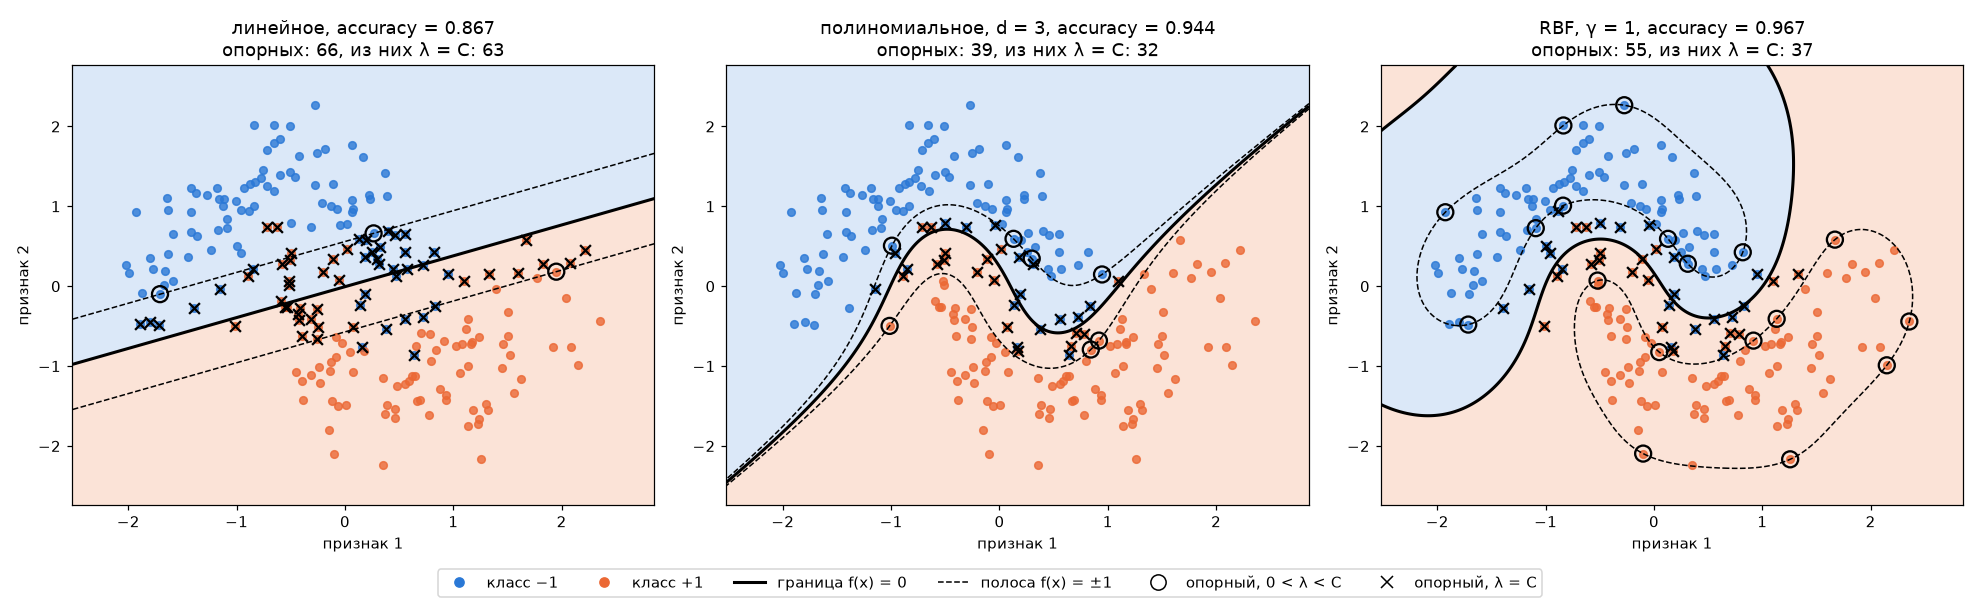
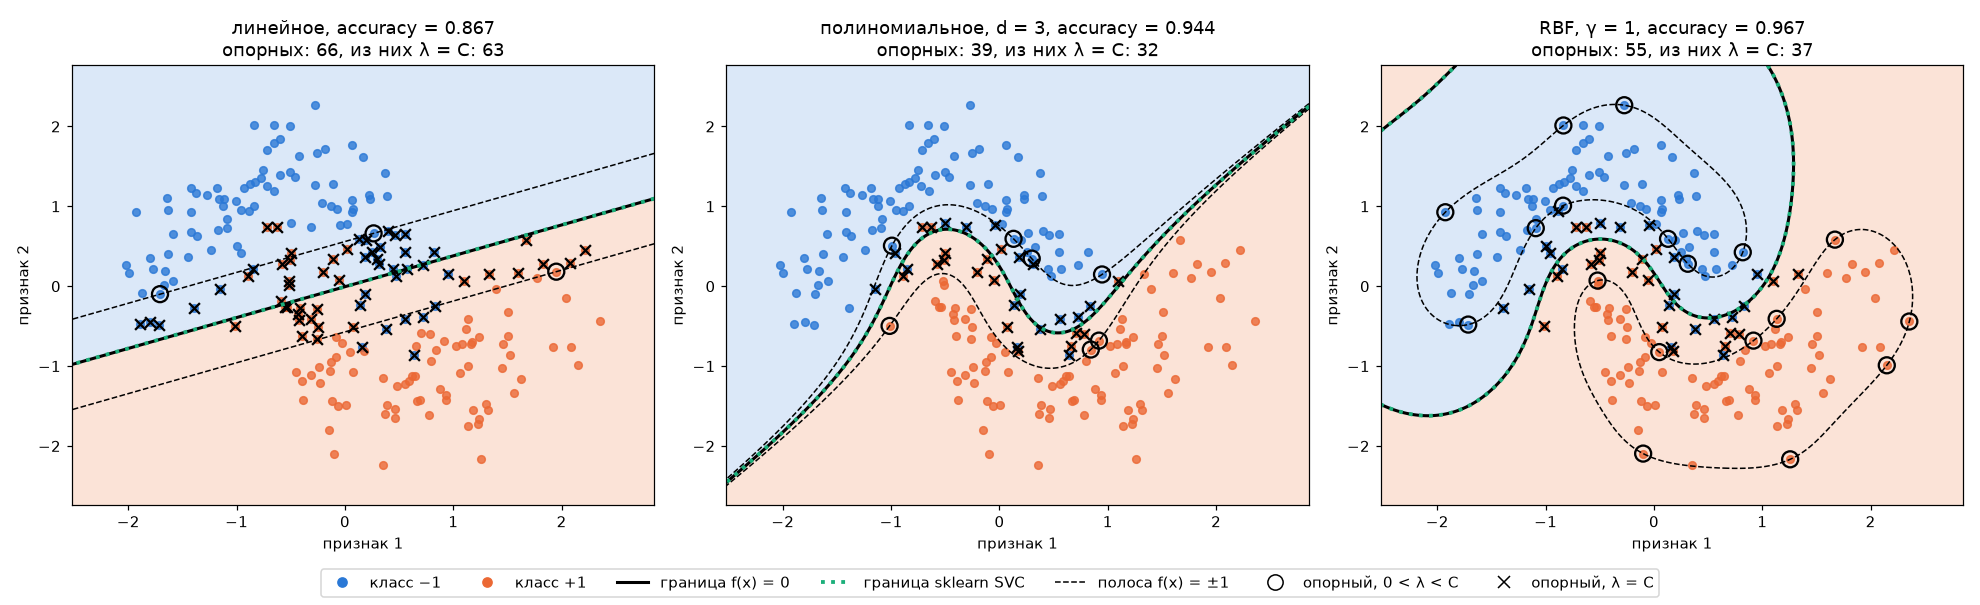
feat(lab3): compare with sklearn svc

Changed region(s): [[0.154, 0.9223, 0.8318, 1.0]]

diff --git a/students/karabanov-af/lab3/source/main.py b/students/karabanov-af/lab3/source/main.py
@@ -1,28 +1,63 @@
 import os
+import time
 
 import numpy as np
+from sklearn.svm import SVC
 
 import plots
-from data import load_moons, standardize, train_test_split
+from data import load_cancer, load_moons, standardize, train_test_split
 from svm import SVM, linear, polynomial, rbf
 
 IMAGES = os.path.join(os.path.dirname(__file__), "..", "images")
+C = 1.0
+
+
+def kernels(n_features):
+    """Our kernel and the same kernel in sklearn terms: sklearn's poly is (gamma <x, x'> + coef0)^degree."""
+    gamma = 1.0 if n_features == 2 else 1.0 / n_features
+    return {
+        "линейное": (linear, {"kernel": "linear"}),
+        "полиномиальное, d = 3": (polynomial(3), {"kernel": "poly", "degree": 3, "gamma": 1.0, "coef0": 1.0}),
+        f"RBF, γ = {gamma:.3g}": (rbf(gamma), {"kernel": "rbf", "gamma": gamma}),
+    }
+
+
+def fit_timed(model, X, y):
+    start = time.perf_counter()
+    model.fit(X, y)
+    return time.perf_counter() - start
+
+
+def compare(title, X, y):
+    """Train our SVM and sklearn's SVC with every kernel, print the table, return both sets of models."""
+    X_train, X_test, y_train, y_test = train_test_split(X, y)
+    Z_train, Z_test = standardize(X_train), standardize(X_test, X_train)
+    print(f"\n{title}: обучение {Z_train.shape}, тест {Z_test.shape}, C = {C}")
+    print(f"  {'ядро':22s} {'accuracy':>15s} {'опорных':>9s} {'совпадение':>11s} {'max|Δf|':>8s} {'время, с':>15s}")
+
+    ours, references = {}, {}
+    for name, (kernel, params) in kernels(X.shape[1]).items():
+        model, reference = SVM(C=C, kernel=kernel), SVC(C=C, **params)
+        t, t_ref = fit_timed(model, Z_train, y_train), fit_timed(reference, Z_train, y_train)
+
+        predicted, predicted_ref = model.predict(Z_test), reference.predict(Z_test)
+        accuracy, accuracy_ref = np.mean(predicted == y_test), np.mean(predicted_ref == y_test)
+        agreement = np.mean(predicted == predicted_ref)
+        gap = np.abs(model.decision_function(Z_test) - reference.decision_function(Z_test)).max()
+        print(f"  {name:22s} {accuracy:6.3f} / {accuracy_ref:.3f} {len(model.lam):3d} / {reference.n_support_.sum():3d} "
+              f"{agreement:11.3f} {gap:8.4f} {t:6.3f} / {t_ref:.3f}")
+
+        ours[f"{name}, accuracy = {accuracy:.3f}"] = model
+        references[f"{name}, accuracy = {accuracy:.3f}"] = reference
+    print("  в парах: наш SVM / sklearn SVC")
+    return Z_train, y_train, ours, references
 
 
 def main():
-    X, y = load_moons()
-    X_train, X_test, y_train, y_test = train_test_split(X, y)
-    Z_train, Z_test = standardize(X_train), standardize(X_test, X_train)
+    Z_train, y_train, ours, references = compare("Moons", *load_moons())
+    plots.plot_decision(ours, Z_train, y_train, os.path.join(IMAGES, "moons_kernels.png"), references)
 
-    kernels = {"линейное": linear, "полиномиальное, d = 3": polynomial(3), "RBF, γ = 1": rbf(1.0)}
-    models = {}
-    for name, kernel in kernels.items():
-        model = SVM(C=1.0, kernel=kernel).fit(Z_train, y_train)
-        accuracy = np.mean(model.predict(Z_test) == y_test)
-        print(f"{name:22s} accuracy = {accuracy:.3f}, опорных = {len(model.lam)}")
-        models[f"{name}, accuracy = {accuracy:.3f}"] = model
-
-    plots.plot_decision(models, Z_train, y_train, os.path.join(IMAGES, "moons_kernels.png"))
+    compare("Breast Cancer", *load_cancer())
 
 
 if __name__ == "__main__":

diff --git a/students/karabanov-af/lab3/source/plots.py b/students/karabanov-af/lab3/source/plots.py
@@ -10,6 +10,7 @@ from matplotlib.lines import Line2D
 
 CLASSES = {-1: "#2a78d6", 1: "#eb6834"}
 REGIONS = ListedColormap(["#dbe8f8", "#fbe3d7"])
+REFERENCE = "#1baf7a"
 
 
 def save(fig, path, rect=(0, 0, 1, 1)):
@@ -19,8 +20,11 @@ def save(fig, path, rect=(0, 0, 1, 1)):
     plt.close(fig)
 
 
-def plot_decision(models, X, y, path):
-    """One panel per model: predicted regions, the boundary f(x) = 0, the margin f(x) = +-1 and support vectors."""
+def plot_decision(models, X, y, path, references=None):
+    """One panel per model: predicted regions, the boundary f(x) = 0, the margin f(x) = +-1 and support vectors.
+
+    `references` are sklearn models under the same keys, their boundary is drawn on top for comparison.
+    """
     xs = np.linspace(X[:, 0].min() - 0.5, X[:, 0].max() + 0.5, 300)
     ys = np.linspace(X[:, 1].min() - 0.5, X[:, 1].max() + 0.5, 300)
     xx, yy = np.meshgrid(xs, ys)
@@ -31,6 +35,9 @@ def plot_decision(models, X, y, path):
         F = model.decision_function(grid).reshape(xx.shape)
         ax.contourf(xx, yy, F, levels=[F.min(), 0, F.max()], cmap=REGIONS)
         ax.contour(xx, yy, F, levels=[-1, 0, 1], colors="black", linestyles=["--", "-", "--"], linewidths=[1, 2, 1])
+        if references:
+            F_ref = references[title].decision_function(grid).reshape(xx.shape)
+            ax.contour(xx, yy, F_ref, levels=[0], colors=REFERENCE, linestyles=":", linewidths=2.5)
         for label, color in CLASSES.items():
             ax.scatter(*X[y == label].T, color=color, s=25, alpha=0.8)
 
@@ -50,5 +57,7 @@ def plot_decision(models, X, y, path):
                label="опорный, 0 < λ < C"),
         Line2D([], [], marker="x", linestyle="", color="black", markersize=8, label="опорный, λ = C"),
     ]
+    if references:
+        legend.insert(3, Line2D([], [], color=REFERENCE, linewidth=2.5, linestyle=":", label="граница sklearn SVC"))
     fig.legend(handles=legend, loc="lower center", ncol=len(legend))
     save(fig, path, rect=(0, 0.06, 1, 1))
